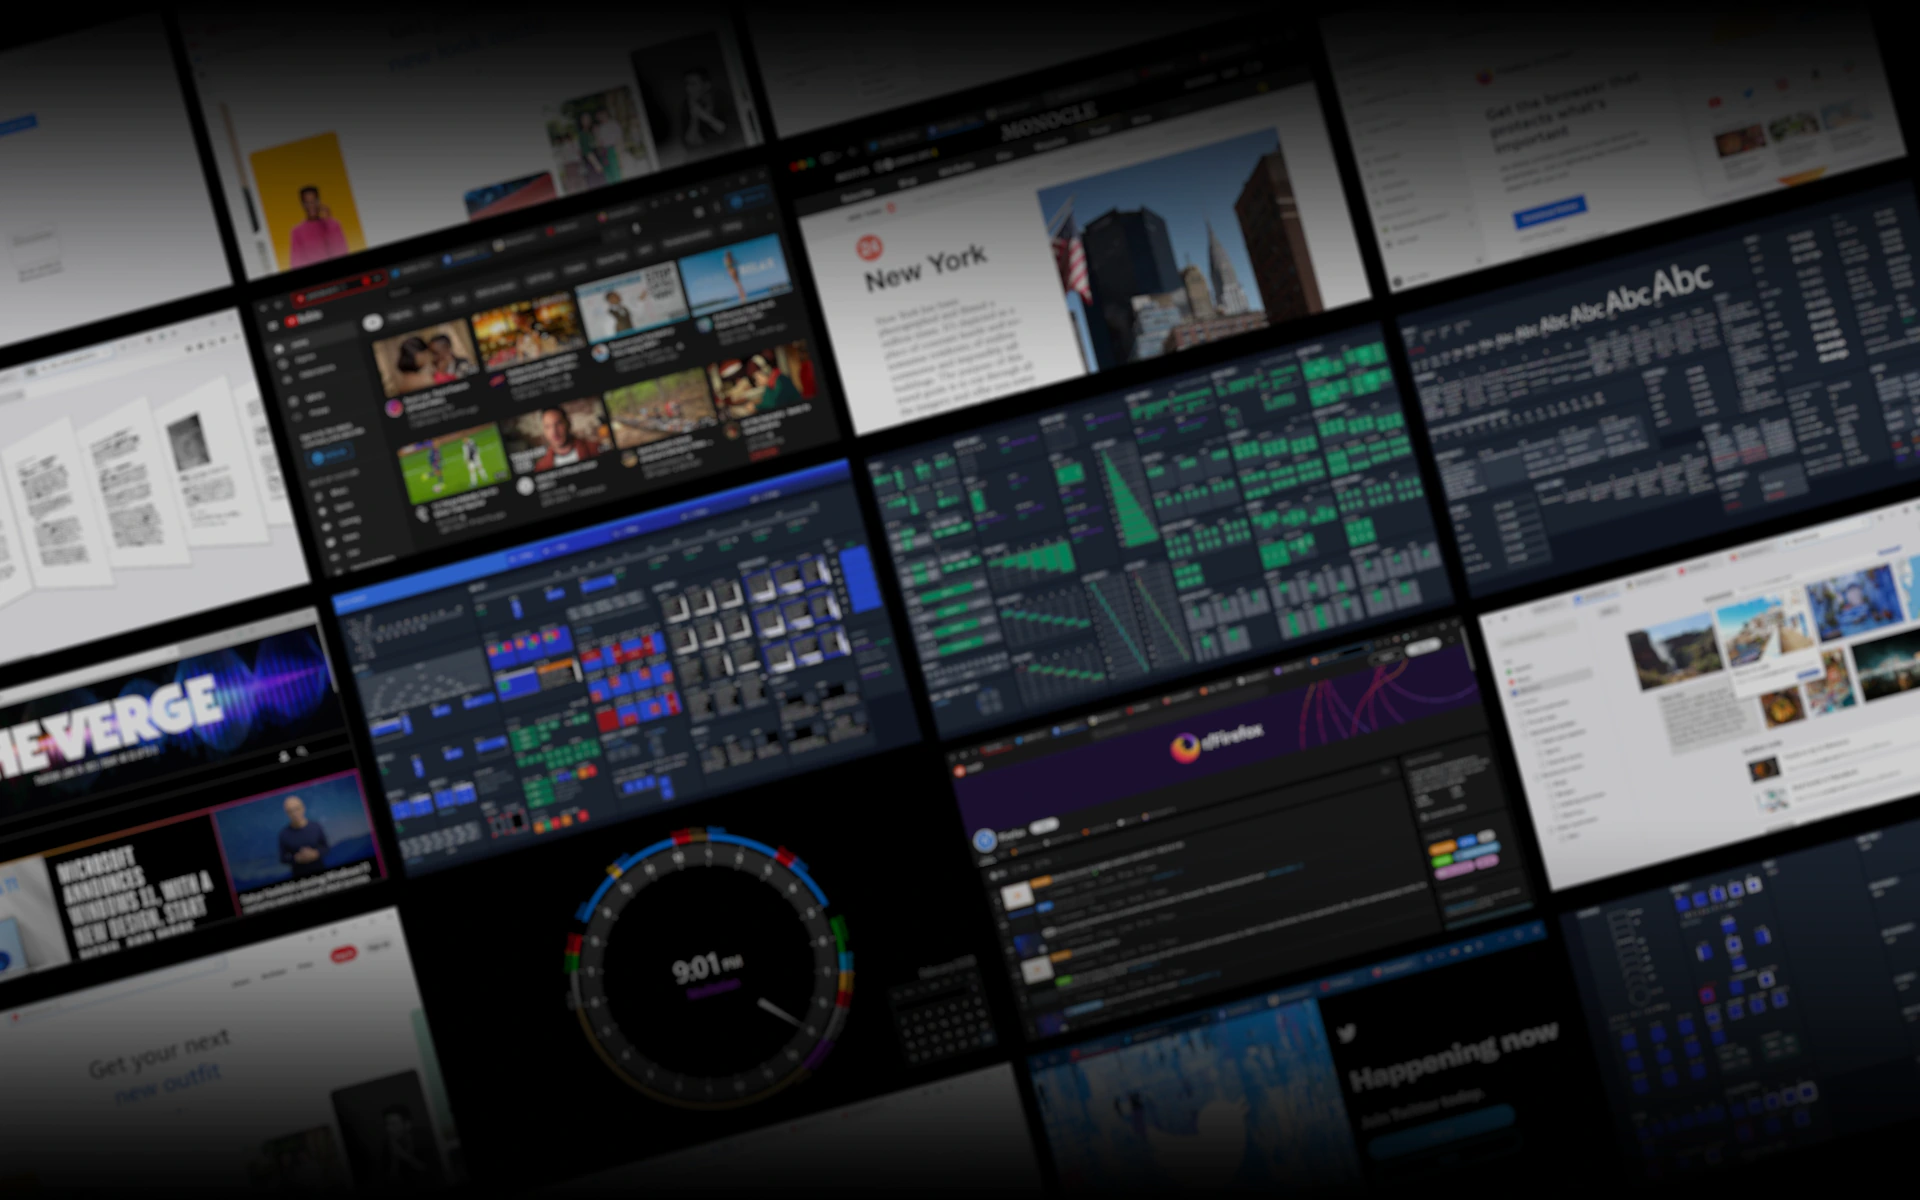
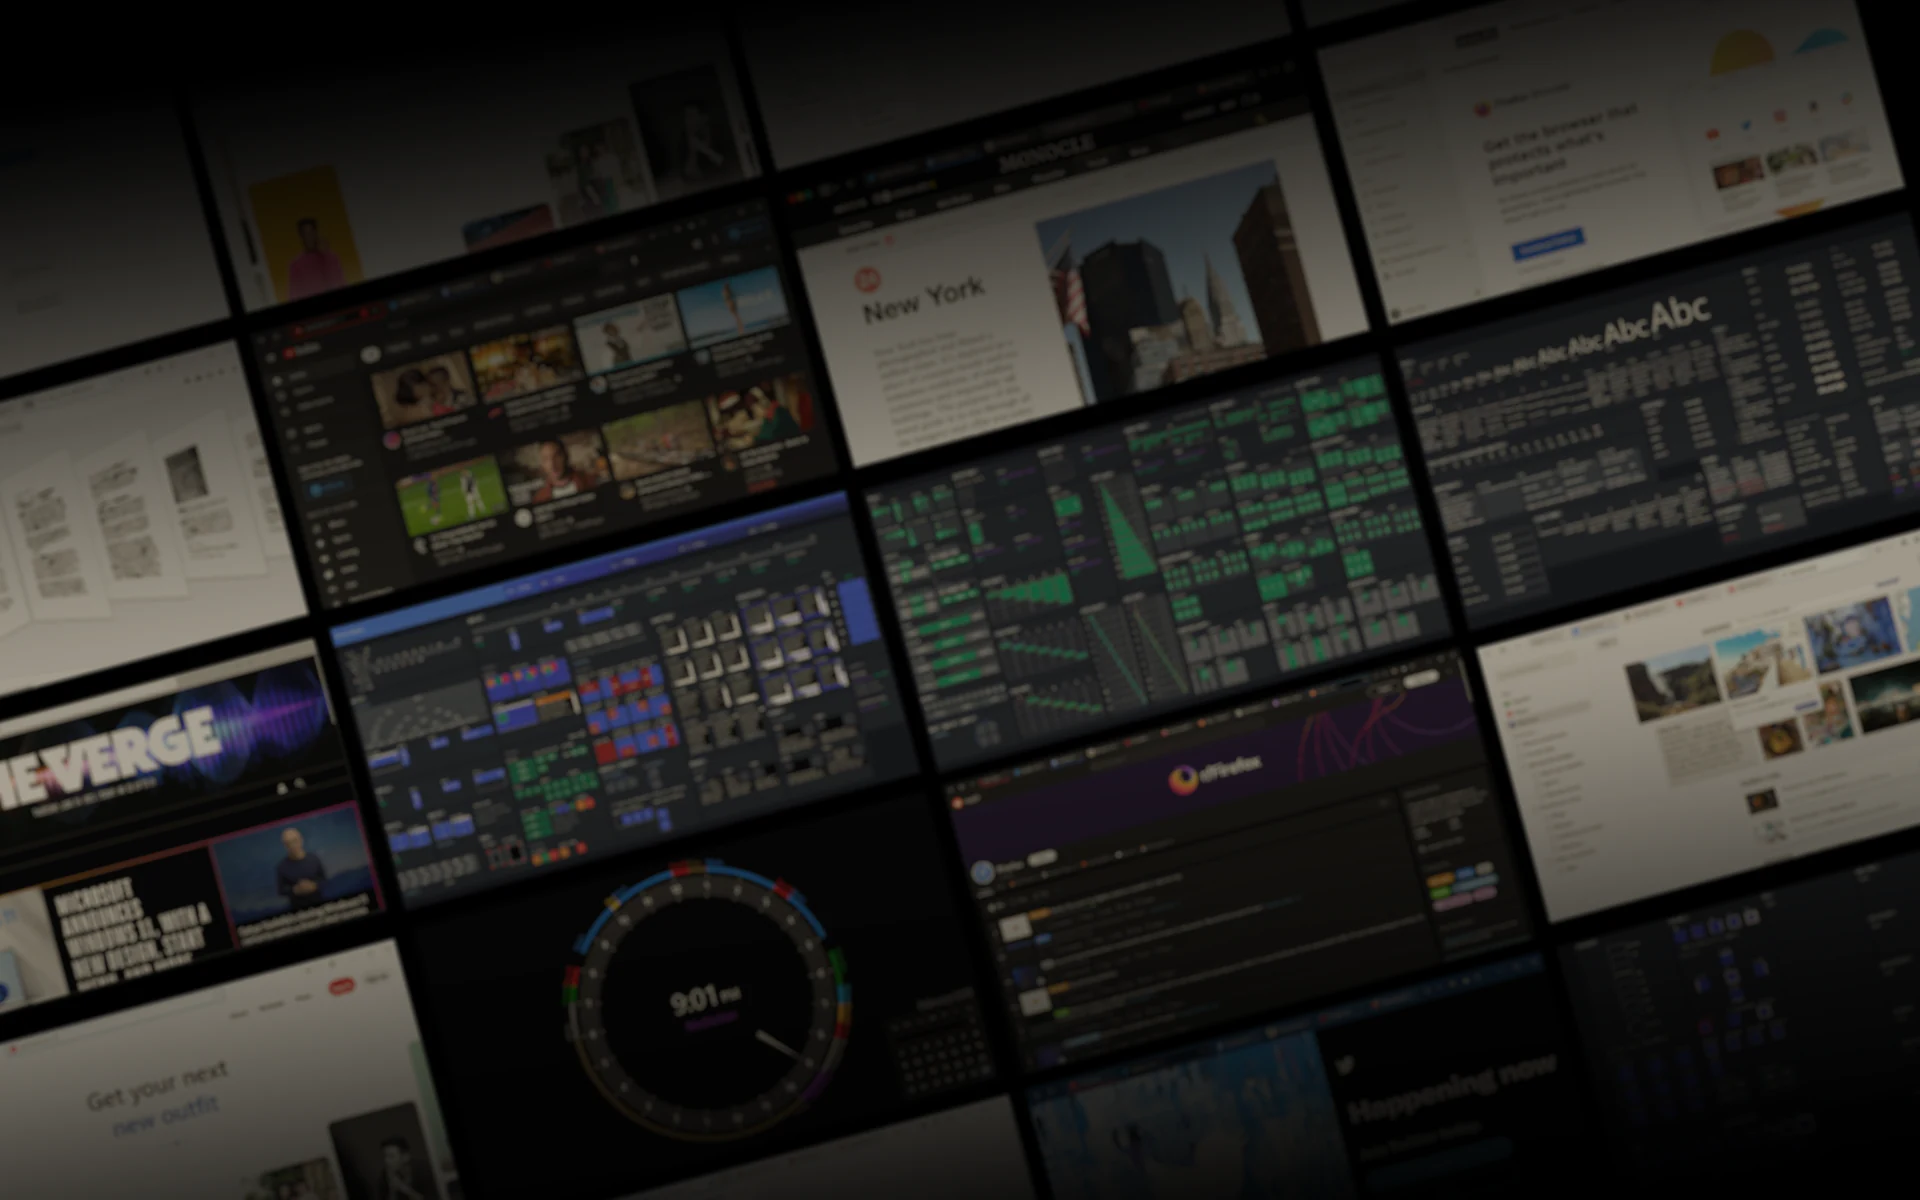
Fixed performance issues related to filters on cover image

diff --git a/pages/index.vue b/pages/index.vue
@@ -128,7 +128,7 @@ export default {
 
 <style lang="scss" scoped>
 .cover-img {
-  filter: contrast(0.9) brightness(0.7) sepia(0.3);
+  // filter: contrast(0.9) brightness(0.7) sepia(0.3);
   background: url('/homepage/cover_photo.webp'), black;
   @apply bg-center bg-cover bg-no-repeat bg-clip-border;
 }
